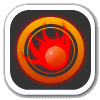
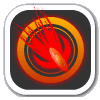
Update Battle Scene ( Flame Strike )

Changed region(s): [[0.12, 0.03, 0.75, 0.75], [0.21, 0.96, 0.81, 0.99]]

diff --git a/Assets/Script/Class/ActionCommand.cs b/Assets/Script/Class/ActionCommand.cs
@@ -596,6 +596,12 @@ public static class ActionCommand
     if (command_name == Fix.CIRCLE_OF_THE_VIGOR) { return Attribute.Skill; }
     #endregion
 
+    #region "Delve V"
+    // 魔法
+    if (command_name == Fix.FLAME_STRIKE) { return Attribute.Magic; }
+
+    #endregion
+
     #region "Archetype"
     if (command_name == Fix.ARCHETYPE_EIN_1) { return Attribute.Archetype; }
     #endregion
@@ -716,6 +722,12 @@ public static class ActionCommand
     if (command_name == Fix.CIRCLE_OF_THE_VIGOR) { return TimingType.Instant; }
     #endregion
 
+    #region "Delve V"
+    // 魔法
+    if (command_name == Fix.FLAME_STRIKE) { return TimingType.Normal; }
+
+    #endregion
+
     #region "Archetype"
     if (command_name == Fix.ARCHETYPE_EIN_1) { return TimingType.Archetype; }
     #endregion
@@ -834,6 +846,11 @@ public static class ActionCommand
     if (command_name == Fix.PENETRATION_ARROW) { return TargetType.Enemy; }
     if (command_name == Fix.WILL_AWAKENING) { return TargetType.Ally; }
     if (command_name == Fix.CIRCLE_OF_THE_VIGOR) { return TargetType.AllyGroup; } // + AllyField
+    #endregion
+
+    #region "Delve V"
+    // 魔法
+    if (command_name == Fix.FLAME_STRIKE) { return TargetType.Enemy; }
     #endregion
 
     #region "Archetype"
@@ -1031,6 +1048,12 @@ public static class ActionCommand
     if (command_name == Fix.CIRCLE_OF_THE_VIGOR) { return 30; }
     #endregion
 
+    #region "Delve V"
+    // 魔法
+    if (command_name == Fix.FLAME_STRIKE) { return 55; }
+
+    #endregion
+
     #region "Archetype"
     if (command_name == Fix.ARCHETYPE_EIN_1) { return 0; }
     #endregion
@@ -1226,6 +1249,10 @@ public static class ActionCommand
     if (command_name == Fix.PENETRATION_ARROW) { return BuffType.Negative; }
     if (command_name == Fix.WILL_AWAKENING) { return BuffType.Positive; }
     if (command_name == Fix.CIRCLE_OF_THE_VIGOR) { return BuffType.Positive; }
+    #endregion
+
+    #region "Delve V"
+    if (command_name == Fix.FLAME_STRIKE) { return BuffType.Negative; }
     #endregion
 
     #region "Archetype"
@@ -1434,6 +1461,12 @@ public static class ActionCommand
     if (command_name == Fix.VOICE_OF_VIGOR) { return false; }
     #endregion
 
+    #region "Delve V"
+    // 魔法
+    if (command_name == Fix.FLAME_STRIKE) { return true; }
+
+    #endregion
+
     #region "Archetype"
     if (command_name == Fix.ARCHETYPE_EIN_1) { return false; }
     #endregion
@@ -1550,6 +1583,12 @@ public static class ActionCommand
     if (command_name == Fix.VOICE_OF_VIGOR) { return Fix.VOICE_OF_VIGOR_JP; }
     #endregion
 
+    #region "Delve V"
+    // 魔法
+    if (command_name == Fix.FLAME_STRIKE) { return Fix.FLAME_STRIKE_JP; }
+
+    #endregion
+
     #region "Archetype"
     if (command_name == Fix.ARCHETYPE_EIN_1) { return Fix.ARCHETYPE_EIN_1; }
     #endregion
@@ -1657,6 +1696,12 @@ public static class ActionCommand
     if (command_name == Fix.PENETRATION_ARROW) { return "敵一体を対象とする。対象に【物理】ダメージを与える。対象が【防御】を行っていても、あたかも【防御】していないかのようにダメージを与える。このダメージは相手の物理防御力に影響しない。加えて対象に【傷跡】のBUFFを付与する。【傷跡】が続く間、対象の物理防御力が減少する。また、対象が行動する度に【出血】ダメージを与える。"; }
     if (command_name == Fix.WILL_AWAKENING) { return "このコマンドはカウンターされない。\r\n味方一体を対象とする。対象に【覚醒】のBUFFを付与する。【覚醒】が続く間、NormalタイミングのコマンドをInstantタイミングで使用可能となる。また、発動コマンドがカウンターされなくなる。"; }
     if (command_name == Fix.CIRCLE_OF_THE_VIGOR) { return "このコマンドは【束縛】状態であっても発動する。味方全体に対して【鈍足】【束縛】【沈黙】のBUFFを解除し、味方フィールドに【迅速】のフィールドを形成する。【迅速】が続く間、【鈍足】【束縛】【沈黙】のBUFFは付与されない。また、戦闘速度および戦闘反応が１０％上昇する。"; }
+    #endregion
+
+    #region "Delve V"
+    // 魔法
+    if (command_name == Fix.FLAME_STRIKE) { return "敵一体に対して【炎】ダメージを与える。加えて、【炎痕】のBUFFを付与する。【炎痕】が続く間、対象に【炎】属性のダメージが与えられる場合、対象が【防御】の姿勢を取っていても、それを無視して【炎】ダメージが適用される。"; }
+
     #endregion
 
     #region "Archetype"

diff --git a/Assets/Script/View/BattleEnemy.cs b/Assets/Script/View/BattleEnemy.cs
@@ -1777,6 +1777,12 @@ public partial class BattleEnemy : MotherBase
         break;
       #endregion
 
+      #region "Delve  V"
+      case Fix.FLAME_STRIKE:
+        ExecFlameStrike(player, target, critical);
+        break;
+      #endregion
+
       #region "Other"
       case Fix.ZERO_IMMUNITY:
         ExecZeroImmunity(player, target);
@@ -4523,6 +4529,16 @@ public partial class BattleEnemy : MotherBase
     StartAnimation(target_field_obj.gameObject, Fix.DOMINATION_FIELD, Fix.COLOR_NORMAL);
   }
 
+  private void ExecFlameStrike(Character player, Character target, Fix.CriticalType critical)
+  {
+    bool success = ExecMagicAttack(player, target, SecondaryLogic.FlameStrike(player), Fix.DamageSource.Fire, false, critical);
+    if (success)
+    {
+      target.objBuffPanel.AddBuff(prefab_Buff, Fix.FLAME_STRIKE, SecondaryLogic.FlameStrike_Turn(player), 0, 0, 0);
+      StartAnimation(target.objGroup.gameObject, Fix.FLAME_STRIKE, Fix.COLOR_NORMAL);
+    }
+  }
+
   private bool ExecUseRedPotion(Character target, string command_name)
   {
     Debug.Log(MethodBase.GetCurrentMethod());
@@ -5223,11 +5239,25 @@ public partial class BattleEnemy : MotherBase
     double debug3 = damageValue;
 
     Debug.Log("Magic-DamageValue: " + debug0.ToString("F2") + " -> " + debug1.ToString("F2") + " - " + debug2.ToString("F2") + " = " + debug3.ToString("F2"));
-    // ターゲットが防御姿勢であれば、ダメージを軽減する。ただし防御無効の場合は差し引かない。
-    if (target.IsDefense && ignore_target_defense == false)
+
+    // 防御判定
+    if (target.IsDefense)
     {
-      damageValue = damageValue * SecondaryLogic.DefenseFactor(target);
-      Debug.Log("Target is Defense mode: " + damageValue.ToString());
+      // ターゲットが防御姿勢であれば、ダメージを軽減する。ただし防御無効の場合は差し引かない。
+      if (ignore_target_defense)
+      {
+        Debug.Log("Target is Defense, but ignore_target_defense is true, then cannot Defense");
+      }
+      // フレイム・ストライク効果があり、【炎】属性の場合は防御できない。
+      else if (attr == Fix.DamageSource.Fire && target.IsFlameStrike != null)
+      {
+        Debug.Log("Target is Defense, but Fire Damage cannot be Defensed, cause FlameStrike !!");
+      }
+      else
+      {
+        damageValue = damageValue * SecondaryLogic.DefenseFactor(target);
+        Debug.Log("Target is Defense mode: " + damageValue.ToString());
+      }
     }
 
     // ダメージ量が負の値になる場合は０とみなす。

diff --git a/Assets/Script/Class/Fix.cs b/Assets/Script/Class/Fix.cs
@@ -1111,7 +1111,7 @@ public static partial class Fix
   public const string EXACT_TIME_JP = "イグザクト・タイム";
 
   // Delve V
-  public const string FLAME_STRIKE = "Frame Strike";
+  public const string FLAME_STRIKE = "Flame Strike";
   public const string FLAME_STRIKE_JP = "フレイム・ストライク";
   public const string FROST_LANCE = "Frost Lance";
   public const string FROST_LANCE_JP = "フロスト・ランス";
@@ -5851,6 +5851,15 @@ public static partial class Fix
   public const float OHRANTOWER_WarpHole_26_Y = 44f;
   public const float OHRANTOWER_WarpHole_26_Z = 20f;
   #endregion
+  #region "ヴェルガスの海底神殿"
+  #region "看板"
+  public const string VELGUS_MessageBoard_1_C = "MessageBoard";
+  public const string VELGUS_MessageBoard_1_O = "1";
+  public const float VELGUS_MessageBoard_1_X = 14.0f;
+  public const float VELGUS_MessageBoard_1_Y = 1.0f;
+  public const float VELGUS_MessageBoard_1_Z = -9.0f;
+  #endregion
+  #endregion
   #region "ダルの門 ( not used )"
   // ダルの門、右エリア入口
   public const string EVENT_GATEDHAL_1 = "EVENT_GATEDHAL_1";
@@ -6299,6 +6308,9 @@ public static partial class Fix
   public static string[] NAME_LIST = { NAME_EIN_WOLENCE, NAME_LANA_AMIRIA, NAME_EONE_FULNEA, NAME_BILLY_RAKI, NAME_ADEL_BRIGANDY, NAME_CALMANS_OHN,
                                        NAME_ANNA_HAMILTON, NAME_SELMOI_RO, NAME_MAGI_ZELKIS, NAME_LENE_COLTOS, NAME_SHUVALTZ_FLORE, NAME_KARTIN_MAI,
                                        NAME_JEDA_ARUS, NAME_ILZINA_MELDIETE, NAME_OHRYU_GENMA, NAME_DELVA_TRECKINO };
+
+  public const string NAME_LEGAL_ORPHSTEIN = "リガール";
+  public const string NAME_LEGAL_ORPHSTEIN＿FULL = "リガール・オルフシュタイン";
   #endregion
   #region "Area"
   public const string AREA_FAZIL = "ファージル";

diff --git a/Assets/Script/Class/Character.cs b/Assets/Script/Class/Character.cs
@@ -2384,6 +2384,12 @@ public partial class Character : MonoBehaviour
     get { return SearchBuff(Fix.DEADLY_DRIVE); }
   }
 
+  public BuffImage IsFlameStrike
+  {
+    get { return SearchBuff(Fix.FLAME_STRIKE); }
+  }
+
+  // 魔法：基本耐性
   public BuffImage IsUpFire
   {
     get { return SearchBuff(Fix.EFFECT_POWERUP_FIRE); }
@@ -2675,6 +2681,8 @@ public partial class Character : MonoBehaviour
     if (this.SpiritualRest > 0) { list.Add(Fix.SPIRITUAL_REST); }
 
     if (this.DominationField > 0) { list.Add(Fix.DOMINATION_FIELD); }
+
+    if (this.FlameStrike > 0) { list.Add(Fix.FLAME_STRIKE); }
 
     if (this.CounterAttack > 0) { list.Add(Fix.COUNTER_ATTACK); }
 

diff --git a/Assets/Script/Class/SecondaryLogic.cs b/Assets/Script/Class/SecondaryLogic.cs
@@ -684,4 +684,15 @@ public static class SecondaryLogic
   {
     return 0.10f;
   }
+
+  public static double FlameStrike(Character player)
+  {
+    return 3.50f;
+  }
+
+  public static int FlameStrike_Turn(Character player)
+  {
+    return Fix.INFINITY;
+  }
+
 }
